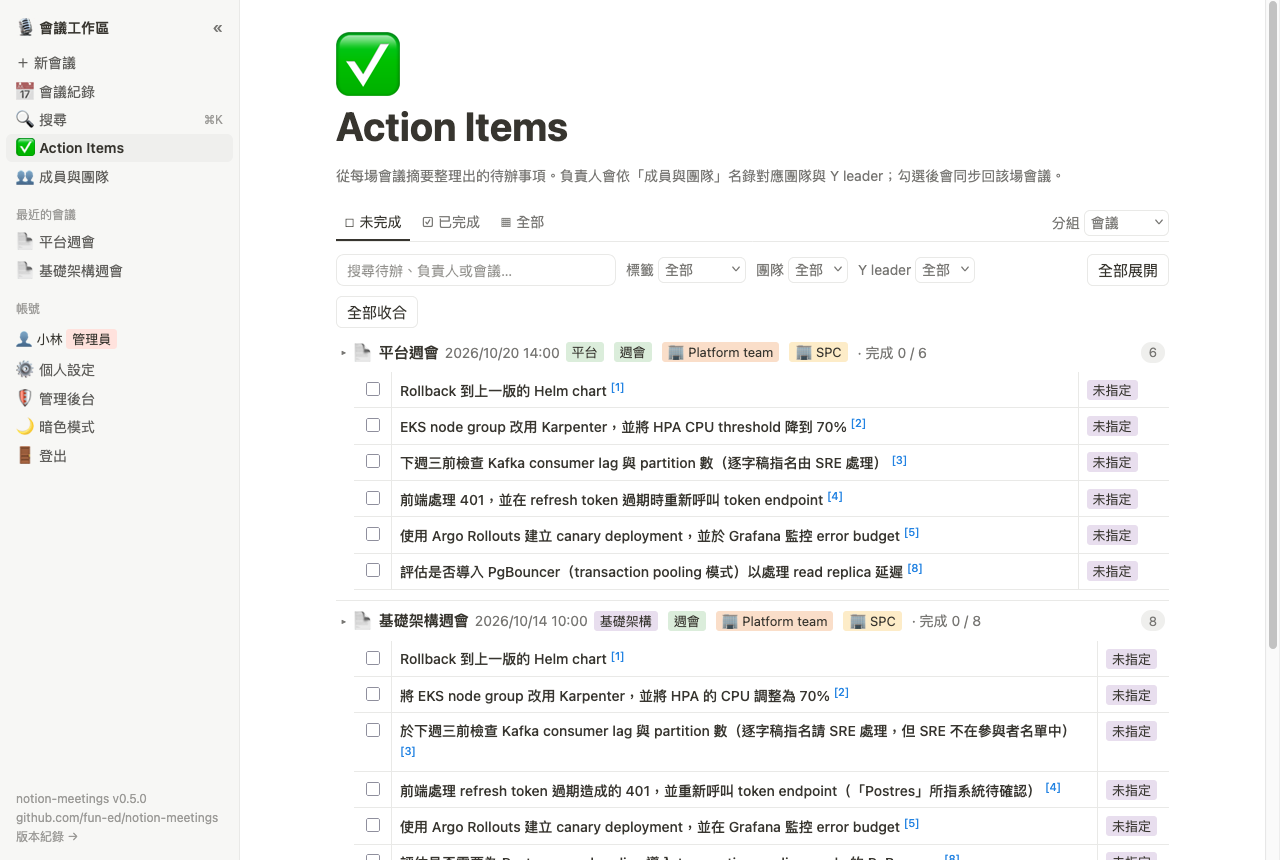
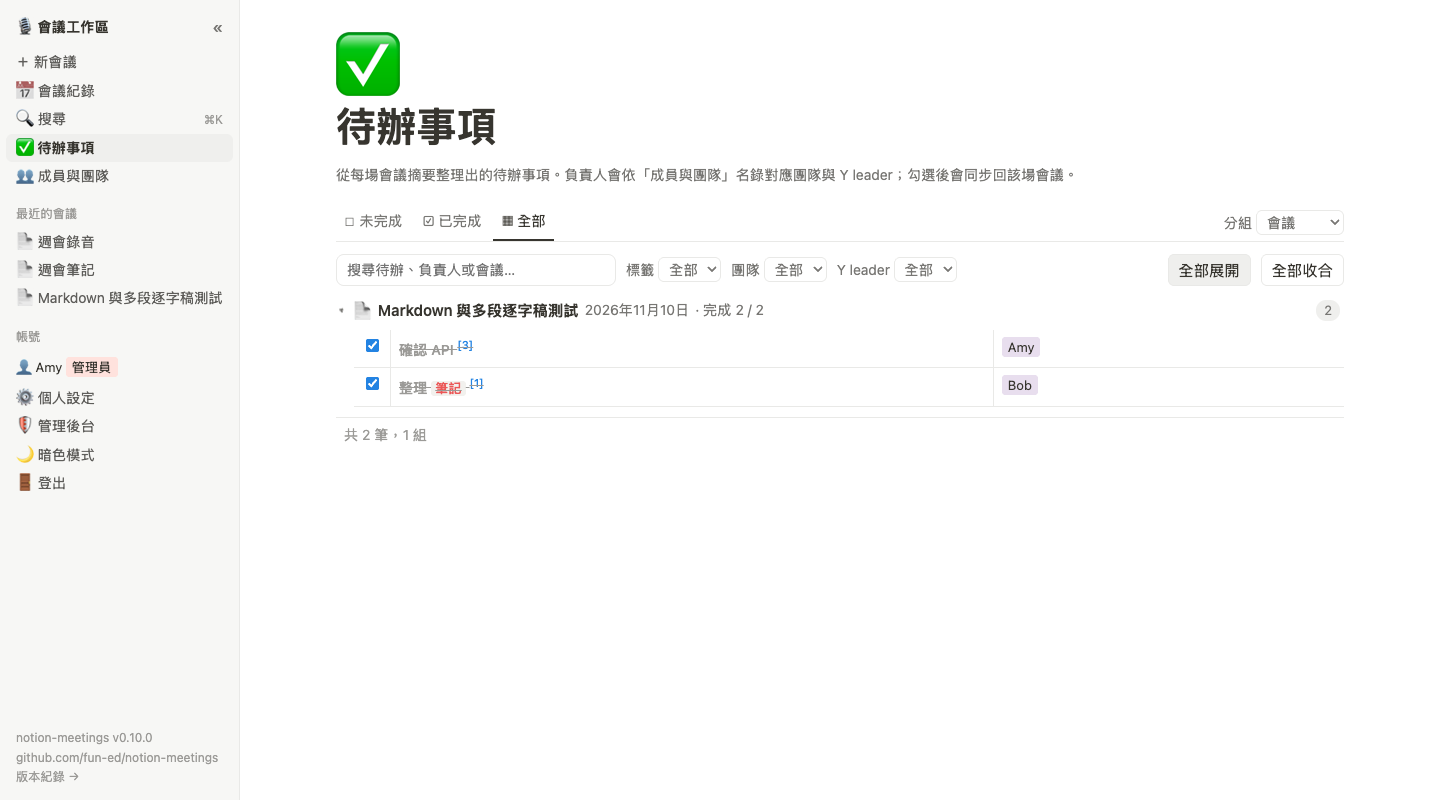
fix(ui): clarify meeting actions and mobile navigation

diff --git a/public/index.html b/public/index.html
@@ -28,7 +28,7 @@
   body.side-collapsed #resizer { display:none; }
   .side-btn { border:0; background:none; color:var(--muted); padding:0 6px; font-size:16px; line-height:1; }
   #side-open { position:fixed; top:10px; left:10px; z-index:20; display:none; background:var(--side); border:1px solid var(--line); border-radius:6px; padding:2px 8px; }
-  body.side-collapsed #side-open { display:block; }
+  body.side-collapsed:not(.anon) #side-open { display:block; }
   input, textarea, select { background:var(--input); }
   a { color:inherit; }
   input[type=checkbox], input[type=radio] { accent-color:var(--accent); }
@@ -197,7 +197,10 @@
   .section-row + .section-row { margin-top:6px; font-size:13px; }
   .section-row input { flex:1; min-width:100px; border:1px solid var(--line); border-radius:4px; padding:3px 6px; }
   .section-row a { overflow-wrap:anywhere; min-width:0; }
-  .section-heading { margin:20px 0 8px; font-size:17px; border-bottom:1px solid var(--line); }
+  .section-heading { display:flex; align-items:center; justify-content:space-between; gap:8px; margin:20px 0 8px; font-size:17px; border-bottom:1px solid var(--line); }
+  .section-heading span { min-width:0; overflow-wrap:anywhere; }
+  .section-heading button { flex-shrink:0; font-size:13px; font-weight:400; }
+  #msg:empty { display:none; }
   .markdown { overflow-wrap:anywhere; }
   .markdown h1 { font-size:26px; } .markdown h2 { font-size:22px; } .markdown h3 { font-size:18px; }
   .markdown p { margin:8px 0; white-space:pre-wrap; }
@@ -214,6 +217,12 @@
   .copy-source .todo { display:block; }
   [hidden] { display:none !important; }
   @media (max-width:700px) {
+    body, body.side-collapsed { grid-template-columns:minmax(0, 1fr); }
+    aside { position:fixed; inset:0 auto 0 0; width:min(280px, 85vw); z-index:30; border-right:1px solid var(--line); }
+    #resizer { display:none; }
+    body.side-collapsed .page { padding-top:52px; }
+    .seg { grid-template-columns:44px minmax(0, 1fr); }
+    .seg > span { grid-column:1 / -1; }
     .page { padding:20px 20px 80px; } .prop { grid-template-columns:100px minmax(0, 1fr); }
     .ai-head, .player { flex-wrap:wrap; } .ai-head .spacer, .player .spacer { display:none; }
     .ai-head .muted, .ai-head button, .player button, .player .muted { white-space:nowrap; flex-shrink:0; }
@@ -226,7 +235,7 @@
   <a href="#new" data-r="new" id="nav-new">＋ 新會議</a>
   <a href="#" data-r="db">📅 會議紀錄</a>
   <a href="#search" data-r="search">🔍 搜尋<span class="kbd">⌘K</span></a>
-  <a href="#actions" data-r="actions">✅ Action Items</a>
+  <a href="#actions" data-r="actions">✅ 待辦事項</a>
   <a href="#people" data-r="people">👥 成員與團隊</a>
   <div class="side-h">最近的會議</div>
   <nav id="list"></nav>
@@ -651,7 +660,7 @@ async function showActions() {
   const view = (k, label) => `<button class="view ${act.status === k ? 'on' : ''}" onclick="act.status='${k}'; showActions()">${label}</button>`;
   const pick = (label, key, values) => `<label class="muted">${label} <select onchange="act.${key} = this.value; renderActions()">
     <option value="">全部</option>${values.map(v => `<option ${act[key] === v ? 'selected' : ''}>${esc(v)}</option>`).join('')}</select></label>`;
-  page(`<div class="icon">✅</div><h1>Action Items</h1>
+  page(`<div class="icon">✅</div><h1>待辦事項</h1>
     <p class="muted">從每場會議摘要整理出的待辦事項。負責人會依「成員與團隊」名錄對應團隊與 Y leader；勾選後會同步回該場會議。</p>
     <div class="views">${view('open', '☐ 未完成')}${view('done', '☑ 已完成')}${view('all', '▦ 全部')}<span class="spacer"></span>
       <label class="muted">分組 <select onchange="act.group = this.value; renderActions()">${[['meeting', '會議'], ['team', '團隊'], ['owner', '負責人'], ['leader', 'Y leader'], ['none', '不分組']]
@@ -800,9 +809,10 @@ function saveNotes() {
 }
 
 function notesEditor(m, canEdit) {
-  return `<div class="notes-tools"><span class="muted">Markdown 筆記</span><span class="spacer"></span>
+  return `<div class="notes-tools"><span>我的筆記</span><span class="muted">支援 Markdown</span><span class="spacer"></span>
+    <span id="copy-status" class="muted" role="status"></span><button id="copy-current" data-keep data-copy-kind="notes" onclick="copyContent('notes')" ${m.notes?.trim() ? '' : 'disabled'}>複製筆記</button>
     ${canEdit ? `<button data-keep onclick="notesPreview = !notesPreview; render(current)">${notesPreview ? '編輯' : '預覽'}</button>` : ''}
-    ${canEdit ? '<button onclick="saveNotes().catch(e => alert(e.message))">儲存筆記</button>' : ''}</div>
+    ${canEdit ? '<button title="筆記也會自動儲存" onclick="saveNotes().catch(e => alert(e.message))">立即儲存</button>' : ''}</div>
     ${notesPreview || !canEdit ? `<div class="markdown">${markdown(m.notes) || '<p class="muted">尚無筆記</p>'}</div>`
       : `<textarea id="notes" class="notes" placeholder="# 會議筆記\n\n可以先記下議程、問題或重點，再加入錄音與影片。" aria-label="我的筆記" oninput="editNotes(this.value)" onchange="saveNotes().catch(() => {})">${esc(m.notes)}</textarea>`}
     <p id="notes-status" class="muted" role="status">${pendingNotes.has(m.id) ? '尚未儲存' : '已儲存'}</p>`;
@@ -1033,6 +1043,16 @@ async function openMeeting(id) {
   if (BUSY.includes(m.status)) pollTimer = setTimeout(() => openMeeting(id), 2000);
 }
 
+function processingAction(m) {
+  if (!m.sections.length) return null;
+  const pending = m.sections.some(s => !s.transcribed);
+  return {
+    label: pending ? '轉錄並產生摘要' : !m.summary ? '產生摘要' : m.summaryStale ? '更新摘要' : '重新產生摘要',
+    primary: pending || !m.summary || m.summaryStale === true,
+    retranscribe: m.sections.some(s => s.transcribed),
+  };
+}
+
 function render(m) {
   pick = null; // a re-render drops the range picker
   const busy = BUSY.includes(m.status);
@@ -1043,11 +1063,10 @@ function render(m) {
   const keepAudio = $('#audio')?.dataset.id === m.id && $('#audio')?.dataset.section === selectedSection && $('#audio');
   const speakerIds = [...new Set(m.segments.map(s => s.speaker))].sort((a, b) => a - b);
   const canEdit = rank(m.perm) >= rank('edit');
-  const staleNote = m.summaryStale && !busy ? `<p class="notice">筆記、講者或 section 已變更，摘要與待辦事項尚未更新。
-    ${canEdit ? '<button onclick="resummarize()">↻ 重新產生摘要</button>' : ''}</p>` : '';
+  const action = processingAction(m);
+  const pendingCount = m.sections.filter(s => !s.transcribed).length;
+  const staleNote = m.summaryStale && !busy ? '<p class="notice">會議內容已變更，摘要與待辦事項尚未更新。</p>' : '';
   const spkOpts = (cur, extra = '') => speakerIds.filter(x => x !== cur).map(x => `<option value="${x}">${esc(spk(m, x))}</option>`).join('') + extra;
-  const copyKind = m.sections.length ? tab : 'notes';
-  const copyAvailable = copyKind === 'transcript' ? m.segments.length : m[copyKind]?.trim();
   const bodies = {
     summary: busy && !m.summary ? `<p class="muted">⏳ ${STATUS[m.status][0]}…</p>`
       : `${staleNote}<div class="summary markdown">${renderSummary(m) || '<p class="muted">尚無摘要</p>'}</div>`,
@@ -1055,7 +1074,8 @@ function render(m) {
     transcript: !m.segments.length ? `<p class="muted">${busy ? `⏳ ${STATUS[m.status][0]}…` : '沒有逐字稿'}</p>` : `
       <div class="speakers">${speakerIds.map(s => `<label style="color:${COLORS[s % COLORS.length]}">${esc(`Speaker ${s < 26 ? String.fromCharCode(65 + s) : s + 1}`)}
         <input type="text" list="dl-people" value="${esc(m.speakers[s] ?? '')}" placeholder="輸入姓名" onchange="renameSpeaker(${s}, this.value)">${speakerIds.length > 1
-          ? `<select aria-label="把 ${esc(spk(m, s))} 的所有段落併入另一位講者" onchange="mergeSpeaker(${s}, +this.value)"><option value="">併入…</option>${spkOpts(s)}</select>` : ''}</label>`).join('')}</div>
+          ? `<select aria-label="把 ${esc(spk(m, s))} 的所有段落併入另一位講者" onchange="mergeSpeaker(${s}, +this.value)"><option value="">併入…</option>${spkOpts(s)}</select>` : ''}</label>`).join('')}
+        <span class="spacer"></span><span id="copy-status" class="muted" role="status"></span><button id="copy-current" data-keep data-copy-kind="transcript" onclick="copyContent('transcript')">複製全部逐字稿</button></div>
       ${hintsHtml(m, canEdit)}
       ${canEdit ? '<p class="muted">講者分錯時，點段落前的名字改成別人，Shift＋點另一段的名字可以一次改一整段範圍；整個講者是同一人時用「併入…」。</p>' : ''}
       ${canEdit ? `<div class="learn-row"><input aria-label="加入團隊術語" placeholder="＋ 加入團隊術語（例如聽錯的專有名詞），下次轉錄起生效" onchange="addTeamTerm(this)"><span id="term-msg" class="muted"></span></div>` : ''}
@@ -1066,7 +1086,8 @@ function render(m) {
       ${m.segments.some(s => s.raw && s.raw !== s.text) ? `<label class="muted"><input type="checkbox" data-keep ${showRaw ? 'checked' : ''} onchange="showRaw = this.checked; render(current)"> 顯示原始辨識結果（未轉繁體、未校對）</label>` : ''}
       ${m.segments.map((s, i) => { const text = showRaw ? s.raw ?? s.text : tidyView ? tidy(s.text) : s.text;
         const boundary = i === 0 || s.sectionId !== m.segments[i - 1].sectionId;
-        return `${boundary ? `<h3 class="section-heading">${esc(m.sections.find(x => x.id === s.sectionId)?.title ?? m.originalName)}</h3>` : ''}<div class="seg${text ? '' : ' filler'}" id="seg-${i + 1}"><time onclick="seek(${i + 1})">${fmt(s.start)}</time>
+        const sectionId = s.sectionId ?? 'legacy', sectionIndex = m.sections.findIndex(section => section.id === sectionId);
+        return `${boundary ? `<h3 class="section-heading"><span>${esc(m.sections[sectionIndex]?.title ?? m.originalName)}</span><button data-keep aria-label="複製 Section ${sectionIndex + 1} 逐字稿" onclick="copyContent('transcript', '${sectionId}')">複製這段</button></h3>` : ''}<div class="seg${text ? '' : ' filler'}" id="seg-${i + 1}"><time onclick="seek(${i + 1})">${fmt(s.start)}</time>
         <b style="color:${COLORS[s.speaker % COLORS.length]}" ${canEdit ? `class="pick" title="點一下改講者；Shift＋點另一段選範圍" onclick="pickSpeaker(${i}, event)"` : ''}>${esc(spk(m, s.speaker))}</b><span>${esc(text).replaceAll('【?】', '<mark title="辨識不確定，請對照錄音">【?】</mark>')}</span></div>`; }).join('')}`,
   };
   page(`<div class="crumb"><a href="#">會議紀錄</a> / ${esc(m.title)}</div>
@@ -1075,12 +1096,12 @@ function render(m) {
     <div class="props">
       ${prop('🕐', '時間', `<input type="datetime-local" aria-label="會議時間" value="${m.scheduledAt || localInput(m.createdAt)}" onchange="patch({ scheduledAt: this.value })">`)}
       ${prop('📍', '地點', `<input aria-label="地點" placeholder="空白" value="${esc(m.location)}" onchange="patch({ location: this.value })">`)}
-      ${prop('📝', '摘要', `<input aria-label="摘要" placeholder="一句話說明這場會議" value="${esc(m.brief)}" onchange="patch({ brief: this.value })">`)}
+      ${prop('📝', '簡述', `<input aria-label="簡述" placeholder="一句話說明這場會議" value="${esc(m.brief)}" onchange="patch({ brief: this.value })">`)}
       ${prop('🏷', '標籤', m.tags.map((t, i) => tagLink(t).replace('</a>', `</a><button class="tag-x" aria-label="移除標籤 ${esc(t)}" onclick="setTags(current.tags.filter((_, k) => k !== ${i}))">×</button>`)).join('')
         + `<input class="tag-add" list="dl-tags" aria-label="新增標籤" placeholder="＋ 新增標籤" onchange="setTags([...current.tags, canon(this.value, allTags())])">`)}
       ${prop('🤖', 'Agent', `<select aria-label="Agent" onchange="patch({ agentId: this.value })">${aiCfg.agents.filter(a => a.enabled !== false || a.id === m.agentId)
         .map(a => `<option value="${a.id}" ${(m.agentId || 'general') === a.id ? 'selected' : ''} title="${esc(a.description)}">${esc(a.name)}</option>`).join('')}</select>
-        <span class="muted">換了 Agent 後按「重新產生摘要」套用</span>`)}
+        <span class="muted">產生或更新摘要時套用</span>`)}
       ${prop('◉', '類型', tag(TYPES[m.template] ?? TYPES.auto))}
       ${prop('◎', '狀態', tag(STATUS[m.status] ?? [m.status, 'gray']) + (m.error ? ` <span class="err">${esc(m.error)}</span>` : ''))}
       ${prop('👥', '參與者', m.people.map(p => `<span class="tag gray" title="${esc(p.leader ? `Y leader：${p.leader}` : '')}">${esc(p.name)}${p.team ? ` · ${esc(p.team)}` : ''}</span>`
@@ -1090,38 +1111,35 @@ function render(m) {
       ${prop('🌐', '轉錄語言', `<select id="lang" aria-label="轉錄語言" onchange="patch({ lang: this.value }).catch(e => alert(e.message))" ${busy || uploading ? 'disabled' : ''}>${LANGS.map(([v, t]) => `<option value="${v}" ${m.lang === v ? 'selected' : ''}>${t}</option>`).join('')}</select>` + (m.language ? ` <span class="muted">偵測為 ${esc(m.language)}</span>` : ''))}
       ${prop('📖', '術語', `<textarea rows="1" aria-label="術語" placeholder="空白" onchange="patch({ glossary: this.value })">${esc(m.glossary)}</textarea>`
         + (teamTerms.length ? `<span class="muted" title="${esc(teamTerms.join('、'))}">另有 ${teamTerms.length} 個團隊術語；轉錄最多送 200 個，以這場會議的術語優先，校對清單不受此限制。</span>` : ''))}
-      ${prop('📎', '媒體', m.sections.length ? `${m.sections.length} 個 section` : '<span class="muted">尚未加入，可先寫筆記</span>')}
-      ${prop('📊', 'AI 用量', (m.usage ?? []).length ? `${usageLine(totalOf(m.usage))}<details><summary class="muted">每次呼叫明細</summary>${usageRows([...m.usage].reverse())}</details>` : '<span class="muted">尚無紀錄</span>')}
+      ${prop('📎', '媒體', m.sections.length ? `${m.sections.length} 個檔案` : '<span class="muted">尚未加入，可先寫筆記</span>')}
+      ${(m.usage ?? []).length ? prop('📊', 'AI 用量', `${usageLine(totalOf(m.usage))}<details><summary class="muted">每次呼叫明細</summary>${usageRows([...m.usage].reverse())}</details>`) : ''}
       ${prop('🔒', '權限', m.perm === 'owner'
         ? `<select aria-label="其他人的權限" data-keep onchange="patch({ access: this.value })">${ACCESS.map(([v, t]) => `<option value="${v}" ${m.access === v ? 'selected' : ''}>${t}</option>`).join('')}</select>
            <button class="ghost" data-keep onclick="openShares()">🔗 分享連結</button><div id="sharePanel"></div>`
         : `你的權限：${tag([PERMS[m.perm], 'blue'])}`)}
     </div>
     <div class="ai-block">
-      <div class="ai-head">🎙 AI 會議筆記<span class="muted">${day(m.createdAt)}</span><span class="spacer"></span>
-        ${m.sections.length ? `<button class="ghost" onclick="resummarize(true)" ${busy || uploading || rec?.state === 'recording' ? 'disabled' : ''} title="用目前術語重新轉錄所有 section">↻ 重新轉錄</button>` : ''}</div>
-      <div class="notes-tools"><span id="copy-status" class="muted" role="status"></span><span class="spacer"></span>
-        <button id="copy-current" data-keep data-copy-kind="${copyKind}" onclick="copyContent('${copyKind}')" ${copyAvailable ? '' : 'disabled'}>複製${{ summary: '摘要', notes: '筆記', transcript: '全部逐字稿' }[copyKind]}</button></div>
+      <div class="ai-head">🎙 錄音與筆記<span class="muted">${day(m.createdAt)}</span><span class="spacer"></span>
+        ${canEdit && action?.retranscribe ? `<button class="ghost" onclick="resummarize(true)" ${busy || uploading || rec?.state === 'recording' ? 'disabled' : ''} title="已轉錄的部分也會重跑，並套用目前的術語">全部重新轉錄</button>` : ''}</div>
       ${m.sections.length ? '' : bodies.notes}
       <div class="ai-start">
-        ${canEdit ? `<button id="recBtn" class="${rec?.state === 'recording' ? 'rec' : 'primary'}" onclick="toggleRec()" ${busy || uploading || !window.MediaRecorder ? 'disabled' : ''}>${rec?.state === 'recording' ? '■ 停止錄音並加入 section' : '開始錄音'}</button>
+        ${canEdit ? `<button id="recBtn" class="${rec?.state === 'recording' ? 'rec' : m.sections.length ? '' : 'primary'}" onclick="toggleRec()" ${busy || uploading || !window.MediaRecorder ? 'disabled' : ''}>${rec?.state === 'recording' ? '■ 停止錄音' : '開始錄音'}</button>
         <span id="recTime" class="muted"></span><span class="spacer"></span>
         <button onclick="$('#file').click()" ${busy || uploading || rec?.state === 'recording' ? 'disabled' : ''}>上傳音訊或影片</button>
         <input type="file" id="file" hidden multiple accept="audio/*,video/*,.mp4,.m4a,.mp3,.wav,.webm,.mov,.aac,.ogg,.flac" onchange="uploadFile()">
-        <button onclick="resummarize()" ${busy || uploading || rec?.state === 'recording' || !m.sections.length ? 'disabled' : ''}>產生會議筆記</button>` : ''}
+        ${action ? `<button id="process-meeting" class="${action.primary ? 'primary' : ''}" onclick="resummarize()" ${busy || uploading || rec?.state === 'recording' ? 'disabled' : ''}>${action.label}</button>` : ''}` : ''}
       </div>
       ${canEdit ? `<label class="muted"><input type="checkbox" id="capOn" ${localStorage.getItem('captions') === '1' ? 'checked' : ''} onchange="localStorage.setItem('captions', this.checked ? '1' : '0')"> 即時字幕預覽（只用瀏覽器本機辨識）</label>
       <div id="live" aria-live="polite" ${rec?.state === 'recording' ? '' : 'hidden'}></div>` : ''}
-      <p id="msg" class="muted" role="status">${uploading ? '上傳中…' : '可一次加入多個檔案，依加入順序排列；可命名與調整順序，再產生整體摘要。'}</p>
+      <p id="msg" class="muted" role="status">${uploading ? '上傳中…' : pendingCount ? `${pendingCount} 個檔案待轉錄。${canEdit ? '確認順序後按「轉錄並產生摘要」。' : ''}` : ''}</p>
       <div class="sections" aria-label="媒體 sections">${m.sections.map((s, i) => `<section class="media-section">
-        <div class="section-row"><span class="muted">Section ${i + 1}</span>
+        <div class="section-row"><span class="muted">第 ${i + 1} 部分</span>
           <input aria-label="Section ${i + 1} 名稱" value="${esc(s.title)}" maxlength="200" onchange="changeSection('${s.id}', this.value)" ${busy || uploading || !canEdit ? 'disabled' : ''}>
           ${canEdit ? `<button aria-label="上移 Section ${i + 1}" onclick="changeSection('${s.id}', null, -1)" ${busy || uploading || i === 0 ? 'disabled' : ''}>↑</button>
           <button aria-label="下移 Section ${i + 1}" onclick="changeSection('${s.id}', null, 1)" ${busy || uploading || i === m.sections.length - 1 ? 'disabled' : ''}>↓</button>` : ''}</div>
         <div class="section-row"><button data-keep aria-pressed="${selectedSection === s.id}" onclick="playSection('${s.id}')">${selectedSection === s.id ? '目前播放' : '播放'}</button>
           <a href="/api/meetings/${m.id}/audio?section=${s.id}&download" download>${esc(s.originalName)}</a>
-          <span class="muted">${s.transcribed ? '已轉錄' : '待轉錄'}</span>
-          <button data-keep aria-label="複製 Section ${i + 1} 逐字稿" onclick="copyContent('transcript', '${s.id}')" ${m.segments.some(seg => (seg.sectionId ?? 'legacy') === s.id) ? '' : 'disabled'}>複製逐字稿</button></div>
+          <span class="muted">${s.transcribed ? '已轉錄' : '待轉錄'}</span></div>
       </section>`).join('')}</div>
       <div id="audioSlot"></div>
       <div class="player" ${m.sections.length ? '' : 'hidden'}>
@@ -1130,24 +1148,24 @@ function render(m) {
         <span class="spacer"></span><span class="muted">速度</span>
         ${[1, 1.2, 1.5, 2].map(r => `<button class="rate ${rate === r ? 'on' : ''}" data-r="${r}" aria-pressed="${rate === r}" onclick="setRate(${r})">${r}×</button>`).join('')}
       </div>
-      ${m.sections.length ? `<div class="tabs" role="tablist">${[['summary', '摘要'], ['notes', '筆記'], ['transcript', '逐字稿']].map(([k, t]) =>
+      ${m.sections.length ? `<div class="tabs" role="tablist">${[['summary', '摘要'], ['notes', '我的筆記'], ['transcript', '逐字稿']].map(([k, t]) =>
         `<button class="tab ${tab === k ? 'on' : ''}" role="tab" aria-selected="${tab === k}" onclick="setTab('${k}')">${t}</button>`).join('')}</div>` : ''}
       ${m.sections.length && tab === 'summary' ? `<div class="ai-foot">
-        <label class="muted">指示 <select id="tpl">${Object.entries(TYPES).map(([v, [t]]) => `<option value="${v}" ${m.template === v ? 'selected' : ''}>${t}</option>`).join('')}</select></label>
+        <label class="muted">類型 <select id="tpl">${Object.entries(TYPES).map(([v, [t]]) => `<option value="${v}" ${m.template === v ? 'selected' : ''}>${t}</option>`).join('')}</select></label>
         <label class="muted">語言 <select id="outLang">${[['', '與逐字稿相同'], ['繁體中文（台灣）', '繁體中文'], ['English', 'English'], ['日本語', '日本語'], ['简体中文', '简体中文'], ['한국어', '한국어']]
           .map(([v, t]) => `<option value="${esc(v)}" ${m.outputLang === v ? 'selected' : ''}>${t}</option>`).join('')}</select></label>
         <span class="spacer"></span>
-        <button onclick="resummarize()" ${busy || uploading || rec?.state === 'recording' || !m.sections.length ? 'disabled' : ''}>${m.segments.length ? '↻ 重新產生摘要' : '轉錄並產生摘要'}</button>
-        ${m.summaryBy ? `<span class="muted" style="width:100%">由 ${esc(m.summaryBy.agent)} · ${esc(m.summaryBy.model)}（effort ${esc(m.summaryBy.effort)}）產生</span>` : ''}
+        <span id="copy-status" class="muted" role="status"></span><button id="copy-current" data-keep data-copy-kind="summary" onclick="copyContent('summary')" ${m.summary?.trim() ? '' : 'disabled'}>複製摘要</button>
+        ${m.summaryBy ? `<details><summary class="muted">產生資訊</summary><span class="muted">${esc(m.summaryBy.agent)} · ${esc(m.summaryBy.model)} · ${esc(m.summaryBy.effort)}</span></details>` : ''}
         <details ${m.instructions ? 'open' : ''}><summary class="muted">自訂指示</summary>
           <textarea id="instr" placeholder="例如：列出所有提到的數字與截止日">${esc(m.instructions)}</textarea></details>
       </div>` : ''}
       ${m.sections.length ? bodies[tab] : ''}
     </div>
-    <h2 class="h2">✅ Action Items</h2>
+    <h2 class="h2">✅ 待辦事項</h2>
     ${staleNote}${m.actions.map((a, i) => todo(m, a, i, markdown(a.text, true), tag([a.owner || '未指定', 'purple']) + (a.team ? teamLink(a.team) : '') + (a.cite ? cites(`[${a.cite}]`) : ''))).join('')
       || '<p class="muted">摘要產生後，待辦事項會出現在這裡。</p>'}
-    <p class="muted"><a href="#actions">在 Action Items 追蹤所有會議的待辦 →</a></p>
+    <p class="muted"><a href="#actions">查看所有會議的待辦 →</a></p>
     <h2 class="h2">💬 留言</h2>
     ${(m.comments ?? []).map(c => `<div class="comment"><b>${esc(c.name)}</b> <span class="muted">${dt(c.createdAt)}
       ${c.seg ? `· <a href="#${m.id}:seg-${c.seg}" onclick="return seek(${c.seg})">逐字稿第 ${c.seg} 段</a>` : ''}</span>
@@ -1160,7 +1178,7 @@ function render(m) {
   // Below edit permission, lock every editing control; viewing, playback and (if allowed) commenting stay usable.
   if (rank(m.perm) < rank('edit')) {
     document.querySelectorAll('main input, main textarea, main select').forEach(el => { if (!el.matches('[data-keep]')) el.disabled = true; });
-    document.querySelectorAll('main .tag-x, main .tag-add, .ai-head .ghost, .ai-foot button, .speakers select').forEach(el => { el.hidden = true; });
+    document.querySelectorAll('main .tag-x, main .tag-add, .ai-head .ghost, .ai-foot button:not([data-keep]), .speakers select').forEach(el => { el.hidden = true; });
   }
   if (!m.sections.length) return;
   const audio = keepAudio || Object.assign(document.createElement('audio'), { id: 'audio', controls: true, preload: 'metadata', src: `/api/meetings/${m.id}/audio?section=${selectedSection}` });
@@ -1408,12 +1426,17 @@ function setSideWidth(w) {
   document.documentElement.style.setProperty('--side-w', `${w}px`);
   localStorage.setItem('sideW', w);
 }
+const narrowScreen = matchMedia('(max-width:700px)');
 function toggleSide(collapse = !document.body.classList.contains('side-collapsed')) {
   document.body.classList.toggle('side-collapsed', collapse);
-  localStorage.setItem('sideCollapsed', collapse ? '1' : '');
+  if (!narrowScreen.matches) localStorage.setItem('sideCollapsed', collapse ? '1' : '');
+  else (collapse ? $('#side-open') : $('aside a:not([hidden])'))?.focus();
 }
 setSideWidth(+localStorage.getItem('sideW') || 240);
-toggleSide(localStorage.getItem('sideCollapsed') === '1');
+const syncSidebar = () => document.body.classList.toggle('side-collapsed', narrowScreen.matches || localStorage.getItem('sideCollapsed') === '1');
+syncSidebar();
+narrowScreen.addEventListener('change', syncSidebar);
+$('aside').addEventListener('click', e => { if (narrowScreen.matches && e.target.closest('a[href^="#"]')) toggleSide(true); });
 $('#resizer').addEventListener('pointerdown', e => {
   e.preventDefault();
   document.body.classList.add('resizing');
@@ -1425,6 +1448,7 @@ $('#resizer').addEventListener('pointerdown', e => {
 $('#resizer').addEventListener('dblclick', () => setSideWidth(240));
 
 document.addEventListener('keydown', e => {
+  if (e.key === 'Escape' && narrowScreen.matches && !document.body.classList.contains('side-collapsed')) toggleSide(true);
   if ((e.metaKey || e.ctrlKey) && e.key === '\\') { e.preventDefault(); toggleSide(); }
   if ((e.metaKey || e.ctrlKey) && e.key.toLowerCase() === 'k') {
     e.preventDefault();

diff --git a/ui.test.js b/ui.test.js
@@ -259,3 +259,43 @@ test('copy uses rendered plain text, scopes transcript sections and reports clip
   assert.equal(status.textContent, '尚無可複製的內容');
   assert.equal(writes.length, 3);
 });
+
+test('processing actions distinguish pending audio, fresh summaries and stale summaries', () => {
+  const context = vm.createContext({});
+  vm.runInContext(script.slice(script.indexOf('function processingAction('), script.indexOf('function render(')), context);
+  const action = m => JSON.parse(JSON.stringify(context.processingAction(m)));
+  assert.equal(context.processingAction({ sections: [] }), null);
+  assert.deepEqual(action({ sections: [{ transcribed: false }], summary: '' }), { label: '轉錄並產生摘要', primary: true, retranscribe: false });
+  assert.deepEqual(action({ sections: [{ transcribed: true }], summary: '' }), { label: '產生摘要', primary: true, retranscribe: true });
+  assert.deepEqual(action({ sections: [{ transcribed: true }], summary: '摘要', summaryStale: true }), { label: '更新摘要', primary: true, retranscribe: true });
+  assert.deepEqual(action({ sections: [{ transcribed: true }], summary: '摘要' }), { label: '重新產生摘要', primary: false, retranscribe: true });
+  assert.equal(action({ sections: [{ transcribed: true }, { transcribed: false }], summary: '舊摘要' }).label, '轉錄並產生摘要');
+});
+
+test('mobile sidebar starts closed, closes after navigation and preserves desktop preference', () => {
+  const classes = new Set(), stored = new Map(), writes = [];
+  let changed, navigate, focused;
+  const media = { matches: true, addEventListener: (_event, callback) => { changed = callback; } };
+  const context = vm.createContext({
+    matchMedia: () => media, setSideWidth: () => {},
+    document: { body: { classList: { contains: name => classes.has(name), toggle: (name, value) => value ? classes.add(name) : classes.delete(name) } } },
+    localStorage: { getItem: name => stored.get(name), setItem: (name, value) => { writes.push([name, value]); stored.set(name, value); } },
+    $: selector => selector === 'aside' ? { addEventListener: (_event, callback) => { navigate = callback; } } : { focus: () => { focused = selector; } },
+  });
+  vm.runInContext(script.slice(script.indexOf('const narrowScreen ='), script.indexOf("$('#resizer').addEventListener")), context);
+  assert.equal(classes.has('side-collapsed'), true);
+  assert.equal(writes.length, 0);
+  context.toggleSide(false);
+  assert.equal(focused, 'aside a:not([hidden])');
+  navigate({ target: { closest: () => ({}) } });
+  assert.equal(classes.has('side-collapsed'), true);
+  assert.equal(focused, '#side-open');
+  media.matches = false; changed();
+  assert.equal(classes.has('side-collapsed'), false);
+  context.toggleSide(true);
+  assert.equal(stored.get('sideCollapsed'), '1');
+  media.matches = true; changed(); context.toggleSide(false);
+  assert.equal(stored.get('sideCollapsed'), '1', 'opening the mobile overlay must not change desktop preference');
+  media.matches = false; changed();
+  assert.equal(classes.has('side-collapsed'), true);
+});

diff --git a/CHANGELOG.md b/CHANGELOG.md
@@ -8,8 +8,11 @@
 - 新增複製摘要、筆記、全部逐字稿及各 section 逐字稿。摘要與筆記複製顯示後的純文字，表格保留文字欄位，待辦保留勾選符號；逐字稿沿用 section 順序與目前顯示模式，包含時間和講者。唯讀帳號也能複製，剪貼簿拒絕時會提示手動複製。
 - 摘要引用仍可切換到對應 section 播放，程式碼中的 `[n]` 不會變成引用，引用範圍保留顯示文字。待辦依事項與負責人對應既有 action，保留儲存的完成狀態；程式碼中的待辦範例維持程式碼顯示。相同事項與負責人的重複項目依既有順序對應。
 - 新增本機 `/markdown-runtime.js` 靜態資產與執行檔內嵌支援，不依賴 CDN。`smoke-binary.sh` 加入內嵌 Markdown 程式的一致性檢查。
-- 驗證：`mise exec -- npm test` 43 項全過，建置與 smoke 腳本語法檢查通過。瀏覽器確認實際剪貼簿寫入、純文字內容、單一 section 範圍、剪貼簿拒絕提示、待辦儲存、跨 section 引用、留言表格與 Action Items 行內格式。亮色、暗色及收合側欄後的 390px 窄版已檢查。
-- 以虛構帳號與合成資料更新會議頁及逐字稿兩張 README 截圖。
+- 會議處理改為單一入口，依狀態顯示「轉錄並產生摘要」、「產生摘要」、「更新摘要」或「重新產生摘要」。有待處理內容才強調主要按鈕，已有轉錄結果才提供「全部重新轉錄」。
+- 複製按鈕移到摘要、我的筆記及逐字稿各自的工具列；各部分的複製按鈕移到逐字稿標題旁。統一「簡述／摘要」、「我的筆記」與「待辦事項」名稱，隱藏空的用量列，產生資訊改為可展開查看。
+- 手機側欄預設收合，展開時以疊層顯示，不壓縮主內容；導覽或按 Escape 後收起，保留桌面偏好與鍵盤焦點。窄版逐字稿將時間、講者和內容分行。
+- 驗證：`mise exec -- npm test` 45 項全過，涵蓋處理按鈕各狀態與手機導覽偏好；最後的可見連結焦點修正另跑 12 項 UI 測試通過。建置與 smoke 腳本語法檢查通過。瀏覽器確認剪貼簿內容、待辦儲存、引用跳轉、草稿自動儲存及唯讀複製，修改 API 仍回 403。亮色、暗色與 390px 手機版均已檢查，手機主內容由 150px 恢復為 390px，並確認側欄導覽、Escape 及鍵盤焦點。
+- 以虛構帳號與合成資料更新會議頁、逐字稿及待辦事項三張 README 截圖。
 - 臨時 macOS arm64 執行檔已建置，HTML 與 Markdown 程式均與原始碼版本一致。執行檔內確認唯讀帳號的 Markdown 顯示與複製，修改 API 回 403，待辦控制仍停用。本次未重跑外部語音辨識評測，未重建其他平台或發布新版；0.10.0 的既有辨識限制保留於下方紀錄。
 
 ## 0.10.0（2026-11-10，GMT+8）

diff --git a/docs/architecture.md b/docs/architecture.md
@@ -44,9 +44,13 @@ server.js  create() / appendSection()
 
 瀏覽器從本機 `GET /markdown-runtime.js` 載入解析器與過濾器，不使用 CDN。`ui-assets.js` 共用載入邏輯供伺服器、建置與測試使用。摘要、筆記可複製顯示後的純文字；逐字稿可複製全部或指定 section，沿用目前的原文／精簡顯示，保留 section 順序、時間與講者。唯讀使用者也可複製，剪貼簿拒絕時顯示提示。原始 Markdown 與逐字稿不會因顯示或複製而改寫。
 
+會議頁使用 `processingAction()` 決定唯一處理入口：未轉錄檔案顯示「轉錄並產生摘要」，沒有摘要時顯示「產生摘要」，過期時顯示「更新摘要」，完成後則保留一般樣式的「重新產生摘要」。已有轉錄結果才提供全部重跑。複製入口依分頁放在內容工具列，各 section 的複製入口位於逐字稿分隔標題，沿用原有匯出格式。
+
+700px 以下的側欄預設收合，展開後覆蓋於主內容之上；選擇頁面或按 Escape 會收起，並處理鍵盤焦點。手機操作不覆寫桌面的收合偏好，跨越斷點時會套用對應狀態。
+
 每個 section 的時間由 00:00 起算，講者編號分開配置。頁面提供逐檔播放與下載；摘要引用會切到對應檔案的時間。調整 section 順序會同步重排逐字稿與既有引用，並提示重新產生摘要。檔名與檔案路徑由伺服器管理，排序 API 只能送既有 section 的 id 與標題。
 
-介面路由（hash）：`#` 會議紀錄資料庫、`#new` 新會議、`#search=<查詢>` 搜尋、`#actions` Action Items、`#people` 成員與團隊、`#me` 個人設定、`#admin` 管理後台、`#share/<token>` 開啟分享連結、`#<id>` 會議頁；`#<id>:seg-<n>` 會開啟逐字稿並跳到第 n 段，`#<id>:notes` 開啟筆記分頁。
+介面路由（hash）：`#` 會議紀錄資料庫、`#new` 新會議、`#search=<查詢>` 搜尋、`#actions` 待辦事項、`#people` 成員與團隊、`#me` 個人設定、`#admin` 管理後台、`#share/<token>` 開啟分享連結、`#<id>` 會議頁；`#<id>:seg-<n>` 會開啟逐字稿並跳到第 n 段，`#<id>:notes` 開啟我的筆記分頁。
 
 讀取會議時（`view()`、`loadAll()`）會用名錄即時補上 `people`、`teams`，以及 `actions[].team/leader`。這些欄位不寫回 `meeting.json`，所以改了名錄，所有舊會議都會跟著更新。
 

diff --git a/README.md b/README.md
@@ -15,6 +15,7 @@ Releases: <https://github.com/fun-ed/notion-meetings/releases> · Changes: [CHAN
 - Add multiple audio or video files to one meeting page. Each file becomes a named section in the order added; move sections up or down, play or download each file, then generate a combined summary. Related meetings can share a page while keeping their transcript sections separate.
 - In development, not yet released: summaries, note previews and comments share CommonMark/GFM rendering, including tables, nested lists, references, images and code blocks. Action item text supports inline Markdown. Raw HTML stays literal and unsafe links are filtered; the parser is served locally and embedded in binaries.
 - In development, not yet released: copy summaries and notes as rendered plain text, or copy all transcript sections or one section with timestamps and speaker names. Transcript copies follow section order and the current raw/tidy view. Read-only users can copy too.
+- UI refinements (unreleased): one processing action follows the meeting state, copy controls sit beside their content, and phone navigation opens over the page without squeezing it.
 - Transcription with MAI-Transcribe 2 through OpenRouter (zero data retention), OpenCC conversion to Taiwan wording, and a Claude pass that fixes only glossary terms. Every edit is checked: anything other than a change into a glossary term or an added 【?】 is reverted. Unsure words are marked 【?】 and the raw output is kept.
 - Speaker correction: rename speakers, reassign one segment or a range, merge two speakers, and add participants who did not speak.
 - Learning loop: meeting terms become a team glossary applied to every transcription; Hangul or kana in a Chinese transcript is flagged 【?】; Claude suggests who each speaker is from name cues ("thanks, X"), and you apply a suggestion with one click; corrected meetings can be frozen as a benchmark to track speaker accuracy and CER.
